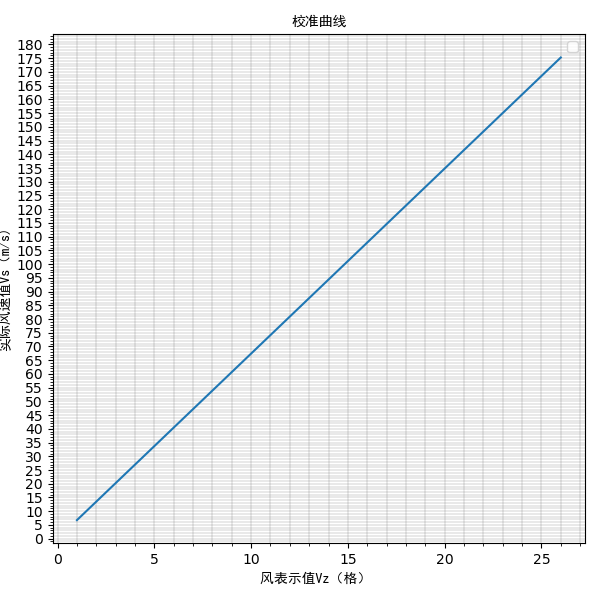
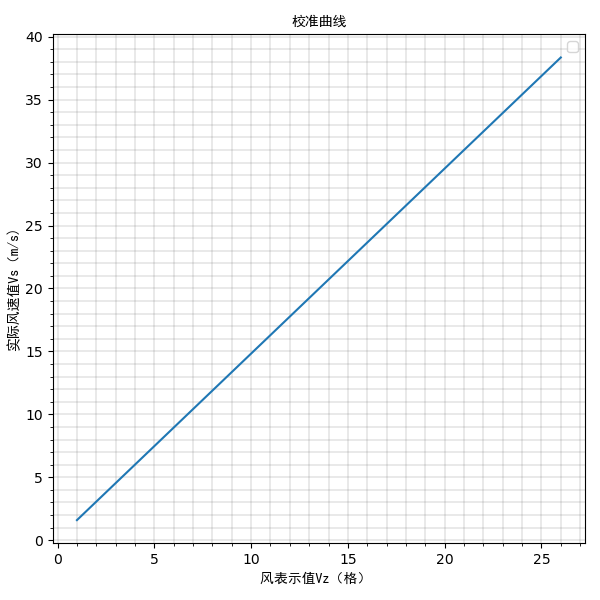
figure axis

Changed region(s): [[0.0, 0.06, 0.09, 0.93]]

diff --git a/app.py b/app.py
@@ -69,22 +69,25 @@ def reg(features, t, target, dcm):
 def savefig(coef, intercept):
     x_data = range(1,31,5)
     y_data = [coef * x +intercept for x in x_data]
+    plt.clf()
     plt.figure('Grid', figsize = (6,6),dpi = 100)
     plt.title("校准曲线",fontsize=20, fontproperties="SimHei")
     plt.xlabel("风表示值Vz（格） ",fontsize=14, fontproperties="SimHei")
     plt.ylabel("实际风速值Vs（m/s)",fontsize=14, fontproperties="SimHei")
+    plt.yticks(y_data)
     ax = plt.gca()
     ax.xaxis.set_major_locator(plt.MultipleLocator(5.0))
-    ax.xaxis.set_minor_locator(plt.MultipleLocator(1))
-    ax.yaxis.set_major_locator(plt.MultipleLocator(5.0))
-    ax.yaxis.set_minor_locator(plt.MultipleLocator(1))
+    ax.xaxis.set_minor_locator(plt.MultipleLocator(2.5))
+    ax.yaxis.set_major_locator(plt.MultipleLocator(20.0))
+    ax.yaxis.set_minor_locator(plt.MultipleLocator(10))
+    
     #紧凑布局
     plt.tight_layout()
     ax.grid(which='major',axis="both",linewidth=0.25,linestyle='-',color='gray')
     ax.grid(which='minor',axis="both",linewidth=0.25,linestyle='-',color='gray')
     plt.plot(x_data, y_data)
     plt.legend()
-    plt.savefig('plt.png')
+    plt.savefig('tem/plt.png')
 
 
 def fnum(code):
@@ -201,8 +204,9 @@ class MainForm(QMainWindow,Ui_MainWindow):
                     self.para[i][3].setText('-')
             
             html = self.tohtml(config, formula)
-            with open("report/html.html", "w", encoding='utf-8')as htmlf:
+            with open("tem/tem", "w", encoding='utf-8')as htmlf:
                 htmlf.write(html)
+                
             reportWindow.__init__()
             reportWindow.show()
 
@@ -218,9 +222,9 @@ class MainForm(QMainWindow,Ui_MainWindow):
 
     def tohtml(self, config, formula):
         html_para = [
-        self.para[0][3](),
-        self.self.para[0][3].text(),
-        self.self.para[0][2].text(),
+        self.input_03.text(),
+        self.input_03.text(),
+        self.input_02.text(),
         self.para[1][3].text(),
         self.para[2][3].text(),
         self.para[3][3].text(),
@@ -380,11 +384,9 @@ class ReportForm(QDialog,Ui_reportwin):
     def __init__(self):
         super(ReportForm, self).__init__()
         self.setupUi(self)
-        #global html
-        #self.browser.setHtml(html)
         #time.sleep(1)
         #self.screen_shot()
-        self.browser.load(QUrl('file:///report/html.html'))
+        self.browser.load(QUrl('file:///tem/tem'))
     def screen_shot(self):
         screen = QApplication.primaryScreen()
         winid = self.browser.winId()
@@ -419,10 +421,10 @@ if __name__ == '__main__':
     company_s = encrypt.encrypt(load_conf()['company'], key, 0)
     
     print(company_s)
-
-#加编号
-#命名规则
-#公司名称设置 加密算法https://blog.csdn.net/weixin_40406241/article/details/89321011
+#测量点 报告
+#~加编号
+#~命名规则
+#~公司名称设置 加密算法https://blog.csdn.net/weixin_40406241/article/details/89321011
 #帮助
 #pdf https://blog.csdn.net/BobYuan888/article/details/108769274
 #图标
